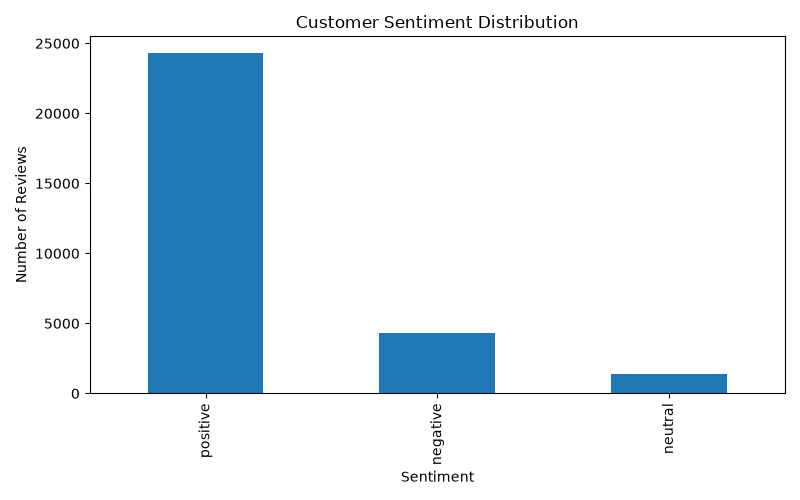
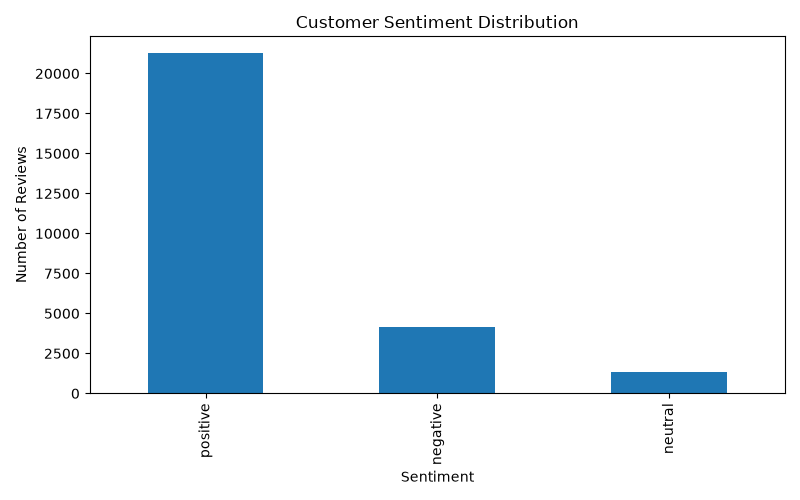
complete exploratory data analysis and product analytics

diff --git a/test_dataset.py b/test_dataset.py
@@ -1,6 +1,8 @@
 import pandas as pd
 import matplotlib.pyplot as plt
-df = pd.read_parquet("data/raw/train.parquet")
+import textwrap
+
+df = pd.read_parquet("data/processed/cleaned_flipkart_reviews.parquet")
 
 print("Dataset Shape:")
 print(df.shape)
@@ -20,9 +22,6 @@ print(df.duplicated().sum())
 print("\nPrice Details:")
 print(df["product_price"].describe())
 
-print("\nTotal Duplicate Rows:")
-print(df.duplicated().sum())
-
 print("\nDuplicate Records:")
 print(df[df.duplicated()].head(10).to_string())
 
@@ -36,8 +35,11 @@ print("\nTotal Unique Products:")
 print(df["product_name"].nunique())
 
 print("\nProduct Price Summary:")
-product_data = df.groupby("product_name")["product_price"].agg(
-    ["count", "mean", "min", "max"]
+product_data = df.groupby("product_name").agg(
+    review_count=("product_name", "count"),
+    average_price=("product_price", "mean"),
+    minimum_price=("product_price", "min"),
+    maximum_price=("product_price", "max")
 )
 
 print(product_data.head(10))
@@ -45,14 +47,14 @@ print(product_data.head(10))
 print("\nMost Reviewed Products:")
 print(df["product_name"].value_counts().head(10))
 
-print("\nProducts with Different Prices:")
+print("\nProducts with Multiple Recorded Prices:")
 
-price_changes = df.groupby("product_name")["product_price"].nunique()
+multiple_prices = df.groupby("product_name")["product_price"].nunique()
 
-print(price_changes[price_changes > 1])
+print(multiple_prices[multiple_prices > 1])
 
-print("\nTotal Products with Different Prices:")
-print((price_changes > 1).sum())
+print("\nTotal Products with Multiple Recorded Prices:")
+print((multiple_prices > 1).sum())
 
 
 print("\nSentiment Distribution:")
@@ -102,26 +104,42 @@ plt.show()
 
 top_products = df["product_name"].value_counts().head(10)
 
-plt.figure(figsize=(10, 7))
-top_products.sort_values().plot(kind="barh")
+product_labels = [
+    textwrap.fill(name, width=50)
+    for name in top_products.index
+]
 
-plt.title("Top 10 Most Reviewed Products")
-plt.xlabel("Number of Reviews")
-plt.ylabel("Product Name")
+plt.figure(figsize=(13, 7))
 
-plt.tight_layout()
-plt.savefig("reports/top_reviewed_products.png")
+plt.barh(product_labels, top_products.values)
+
+plt.title("Top 10 Most Reviewed Products", fontsize=13)
+plt.xlabel("Number of Reviews", fontsize=10)
+
+plt.tick_params(axis="y", labelsize=8)
+
+plt.subplots_adjust(left=0.42, hspace=0.4)
+
+plt.savefig(
+    "reports/top_reviewed_products.png",
+    dpi=200,
+    bbox_inches="tight"
+)
+
 plt.show()
-
 
 # Product Price Distribution
 
-plt.figure(figsize=(8, 5))
-df["product_price"].dropna().plot(kind="hist", bins=30)
+# Product-level Price Distribution
 
-plt.title("Product Price Distribution")
-plt.xlabel("Price in INR")
-plt.ylabel("Frequency")
+product_prices = df.groupby("product_name")["product_price"].median()
+
+plt.figure(figsize=(8, 5))
+product_prices.plot(kind="hist", bins=30)
+
+plt.title("Product-Level Price Distribution")
+plt.xlabel("Median Product Price (INR)")
+plt.ylabel("Number of Products")
 
 plt.tight_layout()
 plt.savefig("reports/price_distribution.png")

diff --git a/src/analytics/product_analysis.py b/src/analytics/product_analysis.py
@@ -1,0 +1,114 @@
+import pandas as pd
+import matplotlib.pyplot as plt
+
+
+# Load cleaned dataset
+df = pd.read_parquet(
+    "data/processed/cleaned_flipkart_reviews.parquet"
+)
+
+
+# Create clean product names for display
+df["display_product_name"] = (
+    df["product_name"]
+    .str.replace(r"\?+", " ", regex=True)
+    .str.strip()
+)
+
+print("\nClean Product Names:")
+print(
+    df[["display_product_name", "Rate"]]
+    .head(10)
+    .to_string(index=False)
+)
+
+
+# Calculate overall average rating
+average_rating = df["Rate"].mean()
+
+print("\nOverall Average Rating:", average_rating)
+
+
+# Calculate average rating for each product
+product_ratings = df.groupby(
+    "display_product_name"
+)["Rate"].mean()
+
+print("\nProduct-wise Average Ratings:")
+print(product_ratings.head(10))
+
+
+# Product rating and review count
+product_analysis = df.groupby("display_product_name").agg(
+    average_rating=("Rate", "mean"),
+    total_reviews=("Rate", "count")
+)
+
+print("\nProduct Rating and Review Count:")
+print(product_analysis.head(10))
+
+
+# Filter products with at least 20 reviews
+reliable_products = product_analysis[
+    product_analysis["total_reviews"] >= 20
+]
+
+
+# Sort products by average rating
+top_rated_products = reliable_products.sort_values(
+    by="average_rating",
+    ascending=False
+)
+
+print("\nTop 10 Reliable Rated Products:")
+print(top_rated_products.head(10))
+
+
+# Select Top 10 Products
+top_10 = top_rated_products.head(10)
+
+
+# Create Bar Chart
+plt.figure(figsize=(12, 7))
+
+top_10["average_rating"].sort_values().plot(
+    kind="barh"
+)
+
+plt.title("Top 10 Highest Rated Products")
+plt.xlabel("Average Rating")
+plt.ylabel("Product Name")
+
+plt.xlim(0, 5)
+
+plt.tight_layout()
+
+# Save graph
+plt.savefig(
+    "reports/top_10_rated_products.png",
+    dpi=300,
+    bbox_inches="tight"
+)
+
+# Display graph
+plt.show()
+
+
+# Check original product names containing question marks
+print("\nProduct Names Containing Question Marks:")
+
+question_mark_products = df[
+    df["product_name"].str.contains(r"\?", na=False)
+]
+
+print(
+    question_mark_products["product_name"]
+    .drop_duplicates()
+    .head(10)
+    .to_string(index=False)
+)
+
+print(
+    "\nTotal Products with Question Marks:",
+    question_mark_products["product_name"].nunique()
+)

diff --git a/src/preprocessing/clean_data.py b/src/preprocessing/clean_data.py
@@ -49,12 +49,25 @@ print("\nData Types:")
 print(clean_df.dtypes)
 
 # Check invalid prices
+invalid_prices = clean_df[clean_df["product_price"] <= 0]
+
 print("\nInvalid Prices:")
-print(clean_df[clean_df["product_price"] <= 0])
+print(invalid_prices)
 
 # Check invalid ratings
+invalid_ratings = clean_df[
+    (clean_df["Rate"] < 1) | (clean_df["Rate"] > 5)
+]
+
 print("\nInvalid Ratings:")
-print(clean_df[(clean_df["Rate"] < 1) | (clean_df["Rate"] > 5)])
+print(invalid_ratings)
+
+# Remove invalid records
+clean_df = clean_df[
+    (clean_df["product_price"] > 0) &
+    (clean_df["Rate"] >= 1) &
+    (clean_df["Rate"] <= 5)
+].copy()
 
 
 # Save cleaned dataset
